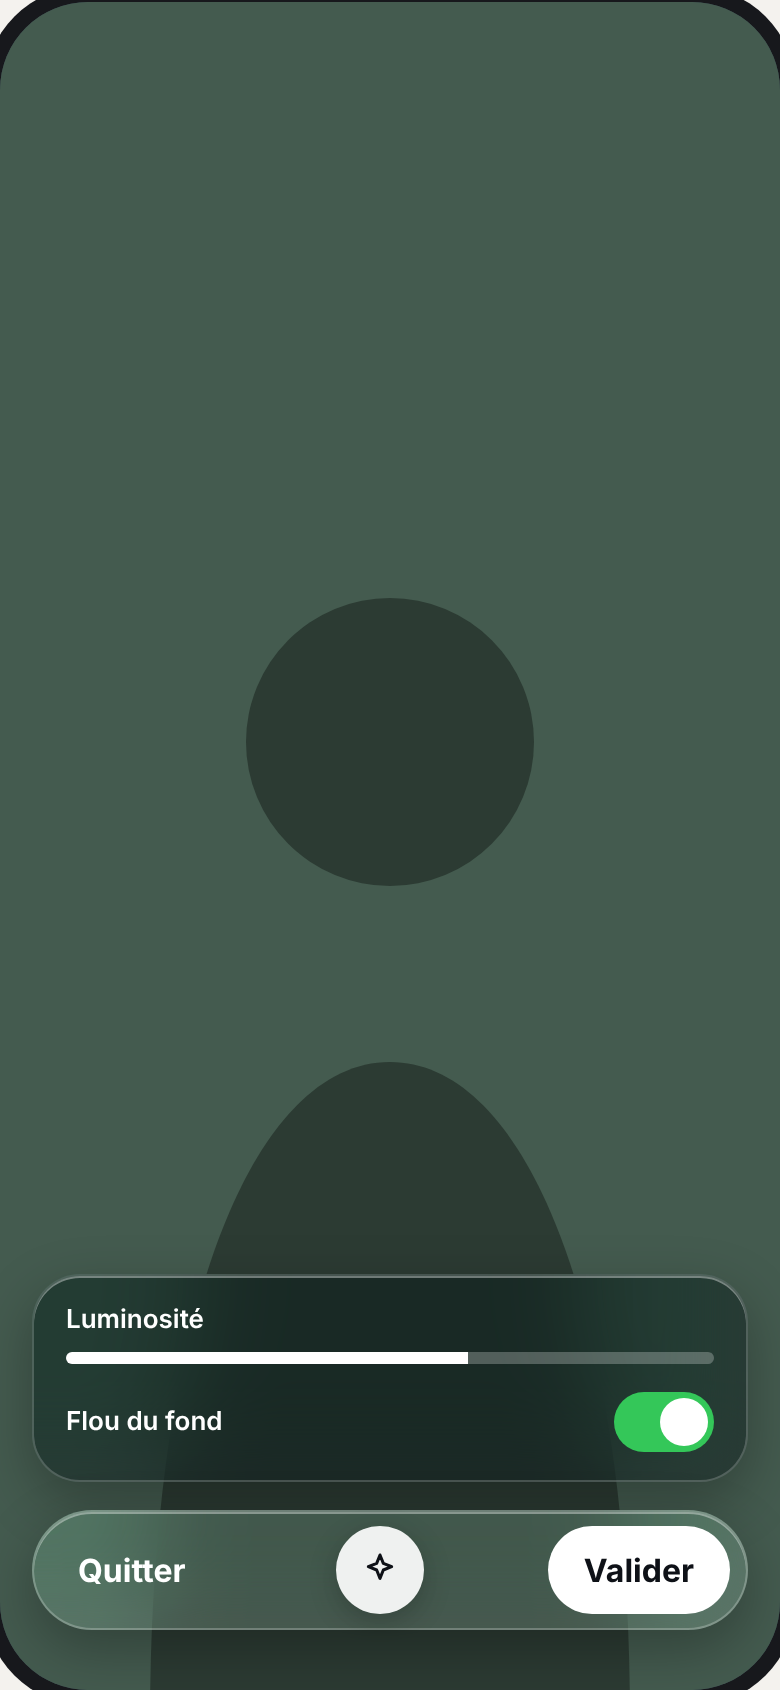
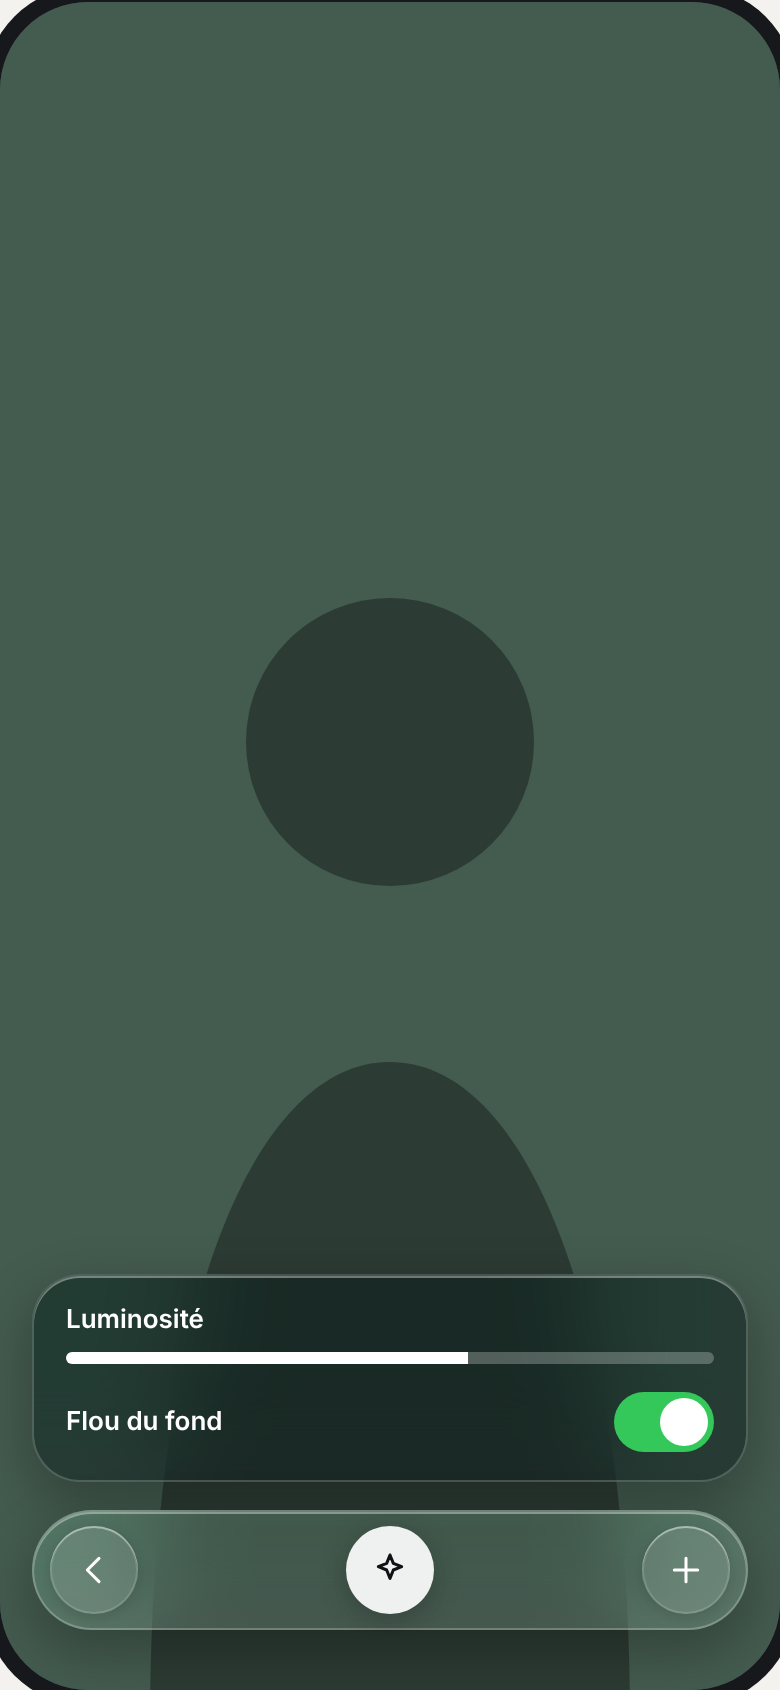
Appels : les puces des looks défilent en fondu aux deux bords, la voix revient, et Effets se pilote par ‹ et (+) (#17410)
* docs(appels): les puces des looks défilent en fondu aux deux bords et trient aussi visage, paysage et voix

La loi 9 rend les effets de voix (directive porteur du 2026-11-10, qui supplante #8050),
la loi 17 interdit la coupure nette d'une rangée qui défile, et la vue P8 le montre.
La facture du workflow de conformité porte la même règle.

Closes #17409

Claude-Session: https://claude.ai/code/session_017ZypwtA3FFaNcUq8pdER8u

* docs(appels): Effets parle la langue du composer — ‹ pour revenir, (+) pour cumuler les looks, plus de « Valider »

Le look touché s'applique tout de suite (directive porteur du 2026-11-10). Vues P8 et P8b, loi 14.

Refs #17409

Claude-Session: https://claude.ai/code/session_017ZypwtA3FFaNcUq8pdER8u

---------

Changed region(s): [[0.7077, 0.8923, 0.9538, 0.9538], [0.4308, 0.8923, 0.5538, 0.9538], [0.0923, 0.9231, 0.2462, 0.9538]]

diff --git a/docs/product/appels-vue-finale/planche.html b/docs/product/appels-vue-finale/planche.html
@@ -138,8 +138,8 @@ const S=[
 {id:'P5',t:'Toucher une phrase : l’original',d:'La phrase touchée déplie son original dessous, en encre secondaire. Retoucher le replie.',html:phone(scene()+head('Awa · 04:12')+self()+caps([T('awa','Tu m’entends bien ? Le son coupait tout à l’heure.',{tag:'EN → FR',orig:'Can you hear me? The sound kept cutting out earlier.'}),T('moi','Oui, c’est net maintenant.')]))},
 {id:'P6',t:'Journal pendant l’appel',d:'« Journal » ouvre TOUT l’appel, rien de tronqué : qui (sa couleur), quand, la phrase servie, l’original sous la phrase qu’on touche. Il s’ouvre DANS la pilule, à la place des sous-titres, et défile librement ; « Revenir au direct » quand on a remonté.',html:phone(scene()+head('Awa · 04:12')+self()+journalPill(J,{live:true}))},
 {id:'P7',t:'Micro coupé',d:'Le micro barré passe en disque blanc. Micro coupé = ma parole n’est plus transcrite (#8475).',html:phone(scene()+head('Awa · 04:12')+self()+pill({micOff:true}))},
-{id:'P8',t:'Effets de ma caméra',d:'« Effets » emprunte au composer (#17406). MA caméra passe en plein écran, les autres en bandeau, les sous-titres restent. Les looks (filtres, cadres, effets) se choisissent en surimpression sur l’image : la case au centre est choisie, à pleine taille, les voisines plus petites. La barre du bas grandit par morphisme et porte les puces qui trient les looks (Tout · Filtres · Cadres · Effets), puis Quitter (rend mon image d’avant) · Réglages · Valider. Pas d’effets de voix (#8050). Un mode libère l’écran : l’en-tête se masque (#8578).',html:phone(`<div style="position:absolute;inset:0;background:#445B4F"></div><svg style="position:absolute;left:75px;top:260px" width="240" height="600" viewBox="0 0 240 600" aria-hidden="true"><circle cx="120" cy="110" r="72" fill="#2c3b33"/><path d="M0 600c0-200 50-330 120-330s120 130 120 330z" fill="#2c3b33"/></svg>`+`<div style="position:absolute;right:12px;top:76px;display:flex;flex-direction:column;gap:6px"><div class="tile" style="width:64px;height:86px;padding:4px;background:#6B5A48;border-color:var(--awa)"><span class="name glass" style="font-size:10px;padding:2px 6px">Awa</span></div></div><div style="position:absolute;left:0;right:0;bottom:158px;display:flex;justify-content:center;align-items:center;gap:12px">${['Aucun','Doré','Lissage','Polaroid','Ange'].map((n,i)=>`<div style="display:flex;flex-direction:column;align-items:center;gap:6px;transform:scale(${i===2?1:.78});opacity:${i===2?1:.6}"><span style="width:64px;height:64px;border-radius:${i===3?'12px':'50%'};background:${['#445B4F','#b89a5a','#7a8f84','#e9e4d8','#c9b37a'][i]};${i===2?'box-shadow:0 0 0 3px #fff;':''}"></span><span style="font-size:11px;font-weight:600">${n}</span></div>`).join('')}</div><div class="glass" style="position:absolute;left:12px;right:12px;bottom:30px;border-radius:32px;padding:10px 8px 8px;display:flex;flex-direction:column;gap:8px"><div role="group" aria-label="Trier les looks" style="display:flex;justify-content:center;gap:6px">${['Tout','Filtres','Cadres','Effets'].map((n,i)=>`<span style="height:32px;padding:0 13px;border-radius:16px;font-size:12px;font-weight:700;display:flex;align-items:center;${i===0?'background:#fff;color:#0E1117':'background:rgba(255,255,255,.16);box-shadow:inset 0 0 0 1px rgba(255,255,255,.14)'}">${n}</span>`).join('')}</div><div style="height:1px;background:rgba(255,255,255,.18)"></div><div style="display:flex;justify-content:space-between;align-items:center;height:48px"><span style="padding:0 14px;font-weight:700">Quitter</span>${B('effects','Réglages','soft')}<span style="height:44px;padding:0 18px;border-radius:22px;background:#fff;color:#0E1117;font-weight:700;display:flex;align-items:center">Valider</span></div></div>`)},
-{id:'P8b',t:'Effets : réglages',d:'« Réglages » remplace le carrousel par Luminosité et Flou du fond.',html:phone(`<div style="position:absolute;inset:0;background:#445B4F"></div><svg style="position:absolute;left:75px;top:260px" width="240" height="600" viewBox="0 0 240 600" aria-hidden="true"><circle cx="120" cy="110" r="72" fill="#2c3b33"/><path d="M0 600c0-200 50-330 120-330s120 130 120 330z" fill="#2c3b33"/></svg>`+`<div class="glass deep" style="position:absolute;left:16px;right:16px;bottom:104px;border-radius:24px;padding:14px 16px;display:flex;flex-direction:column;gap:14px"><label style="display:flex;flex-direction:column;gap:8px;font-size:13px;font-weight:600">Luminosité<span style="height:6px;border-radius:3px;background:linear-gradient(90deg,#fff 62%,rgba(255,255,255,.25) 62%)"></span></label><label style="display:flex;justify-content:space-between;align-items:center;font-size:13px;font-weight:600">Flou du fond<span style="width:50px;height:30px;border-radius:15px;background:#34C759;position:relative"><i style="position:absolute;right:3px;top:3px;width:24px;height:24px;border-radius:50%;background:#fff"></i></span></label></div><div class="glass" style="position:absolute;left:16px;right:16px;bottom:30px;height:60px;border-radius:30px;display:flex;justify-content:space-between;align-items:center;padding:0 8px"><span style="padding:0 14px;font-weight:700">Quitter</span>${B('effects','Réglages','on')}<span style="height:44px;padding:0 18px;border-radius:22px;background:#fff;color:#0E1117;font-weight:700;display:flex;align-items:center">Valider</span></div>`)},
+{id:'P8',t:'Effets de ma caméra',d:'« Effets » emprunte au composer (#17406). MA caméra passe en plein écran, les autres en bandeau, les sous-titres restent. Les looks (filtres, cadres, effets) se choisissent en surimpression sur l’image : la case au centre est choisie, à pleine taille, les voisines plus petites. La barre du bas grandit par morphisme et porte les puces qui trient les looks (Tout · Filtres · Cadres · Visage · Paysage · Voix…) : elles défilent à l’horizontale sans coupure, en s’effaçant toujours en fondu à gauche comme à droite (#17409). Le look choisi s’applique tout de suite : il n’y a pas de « Valider ». La rangée de base parle la langue du composer : ‹ revient à l’appel, Réglages, et (+) ajoute un look par-dessus le précédent pour les cumuler. Un mode libère l’écran : l’en-tête se masque (#8578).',html:phone(`<div style="position:absolute;inset:0;background:#445B4F"></div><svg style="position:absolute;left:75px;top:260px" width="240" height="600" viewBox="0 0 240 600" aria-hidden="true"><circle cx="120" cy="110" r="72" fill="#2c3b33"/><path d="M0 600c0-200 50-330 120-330s120 130 120 330z" fill="#2c3b33"/></svg>`+`<div style="position:absolute;right:12px;top:76px;display:flex;flex-direction:column;gap:6px"><div class="tile" style="width:64px;height:86px;padding:4px;background:#6B5A48;border-color:var(--awa)"><span class="name glass" style="font-size:10px;padding:2px 6px">Awa</span></div></div><div style="position:absolute;left:0;right:0;bottom:158px;display:flex;justify-content:center;align-items:center;gap:12px">${['Aucun','Doré','Lissage','Polaroid','Ange'].map((n,i)=>`<div style="display:flex;flex-direction:column;align-items:center;gap:6px;transform:scale(${i===2?1:.78});opacity:${i===2?1:.6}"><span style="width:64px;height:64px;border-radius:${i===3?'12px':'50%'};background:${['#445B4F','#b89a5a','#7a8f84','#e9e4d8','#c9b37a'][i]};${i===2?'box-shadow:0 0 0 3px #fff;':''}"></span><span style="font-size:11px;font-weight:600">${n}</span></div>`).join('')}</div><div class="glass" style="position:absolute;left:12px;right:12px;bottom:30px;border-radius:32px;padding:10px 8px 8px;display:flex;flex-direction:column;gap:8px"><div role="group" aria-label="Trier les looks" style="overflow:hidden;-webkit-mask-image:linear-gradient(90deg,transparent 0,#000 34px,#000 calc(100% - 34px),transparent 100%);mask-image:linear-gradient(90deg,transparent 0,#000 34px,#000 calc(100% - 34px),transparent 100%)"><div style="display:flex;gap:6px;width:max-content;transform:translateX(-46px)">${['Tout','Filtres','Cadres','Visage','Paysage','Voix','Ambiances'].map((n,i)=>`<span style="height:32px;padding:0 13px;border-radius:16px;font-size:12px;font-weight:700;display:flex;align-items:center;flex-shrink:0;${i===1?'background:#fff;color:#0E1117':'background:rgba(255,255,255,.16);box-shadow:inset 0 0 0 1px rgba(255,255,255,.14)'}">${n}</span>`).join('')}</div></div><div style="height:1px;background:rgba(255,255,255,.18)"></div><div style="display:flex;justify-content:space-between;align-items:center;height:48px">${B('down','Retour à l’appel','soft').replace(P.down,'M15 5l-7 7 7 7')}${B('effects','Réglages','soft')}${B('add','Ajouter un autre look','soft').replace(P.add,'M12 5v14M5 12h14')}</div></div>`)},
+{id:'P8b',t:'Effets : réglages',d:'« Réglages » remplace la bande de looks par Luminosité et Flou du fond ; ‹ et (+) restent.',html:phone(`<div style="position:absolute;inset:0;background:#445B4F"></div><svg style="position:absolute;left:75px;top:260px" width="240" height="600" viewBox="0 0 240 600" aria-hidden="true"><circle cx="120" cy="110" r="72" fill="#2c3b33"/><path d="M0 600c0-200 50-330 120-330s120 130 120 330z" fill="#2c3b33"/></svg>`+`<div class="glass deep" style="position:absolute;left:16px;right:16px;bottom:104px;border-radius:24px;padding:14px 16px;display:flex;flex-direction:column;gap:14px"><label style="display:flex;flex-direction:column;gap:8px;font-size:13px;font-weight:600">Luminosité<span style="height:6px;border-radius:3px;background:linear-gradient(90deg,#fff 62%,rgba(255,255,255,.25) 62%)"></span></label><label style="display:flex;justify-content:space-between;align-items:center;font-size:13px;font-weight:600">Flou du fond<span style="width:50px;height:30px;border-radius:15px;background:#34C759;position:relative"><i style="position:absolute;right:3px;top:3px;width:24px;height:24px;border-radius:50%;background:#fff"></i></span></label></div><div class="glass" style="position:absolute;left:16px;right:16px;bottom:30px;height:60px;border-radius:30px;display:flex;justify-content:space-between;align-items:center;padding:0 8px">${B('down','Retour à l’appel','soft').replace(P.down,'M15 5l-7 7 7 7')}${B('effects','Réglages','on')}${B('add','Ajouter un autre look','soft').replace(P.add,'M12 5v14M5 12h14')}</div>`)},
 ]},
 {h:'Duo audio, portrait',lead:'Sans vidéo, la personne au centre ; mêmes rails, même pilule. « Caméra » dans le rail gauche bascule l’appel en vidéo.',b:[
 {id:'P9',t:'Audio, repos',d:'Avatar, nom, durée au centre ; l’en-tête ne porte à droite que l’indicateur réseau, et seulement s’il se dégrade. L’anneau de l’avatar prend la couleur de la personne quand elle parle.',html:phone(head('')+`<div class="person" style="left:0;right:0;top:220px"><span class="av" style="width:132px;height:132px;background:#B45309;font-size:40px;box-shadow:0 0 0 4px var(--awa),0 0 30px var(--awa)">AD</span><b style="font-size:22px">Awa Diallo</b><span style="color:rgba(255,255,255,.75)">En train de parler</span></div>`+pill(),'#1B2130')},

diff --git a/.claude/workflows/meeshy-conformite-vues.js b/.claude/workflows/meeshy-conformite-vues.js
@@ -126,7 +126,8 @@ const FACTURE = `FACTURE (directive porteur du 2026-11-10, #17406) — elle vaut
   le bord de l'écran et sort par lui ; une option de la barre du bas s'ouvre par MORPHISME, la même barre s'allonge et grandit pour la
   contenir, puis reprend sa forme ; tout ce qui se pose par-dessus suit la même règle, sauf si la planche écrit autre chose pour une vue.
   L'animation ne touche que la transformation et l'opacité, ne perd aucune image, reste interruptible (un bouton touché pendant le
-  mouvement répond), et « Réduire les animations » la remplace par un fondu court.${CONSIGNES ? `
+  mouvement répond), et « Réduire les animations » la remplace par un fondu court.
+- UNE RANGÉE QUI DÉFILE (puces, vignettes) n'est jamais coupée net : elle s'efface en fondu à ses deux bords, à gauche comme à droite.${CONSIGNES ? `
 CONSIGNES DE CE PASSAGE (données par la session qui lance, elles s'ajoutent sans rien retirer) : ${CONSIGNES}` : ''}`
 
 const ECRITURE = (cle, plateforme) => `CLONE PRIVÉ : D=${LOTS}/${cle} ; s'il n'existe pas :

diff --git a/docs/product/appels-vue-finale.md b/docs/product/appels-vue-finale.md
@@ -55,8 +55,8 @@
      - « Revenir au direct » apparaît dès qu'on a remonté ;
      - le journal survit à l'appel réduit, aux sous-titres coupés et à une reconnexion.
 8. **Micro coupé = ma parole n'est plus transcrite** (#8475).
-9. **Effets = filtres vidéo et flou d'arrière-plan, sans effets de voix** (#8050).
-   - **Effets emprunte au composer** (directive porteur du 2026-11-10, #17406) : les filtres, les cadres et les effets sont des LOOKS, choisis en surimpression sur mon image, dans la bande du composer (`ComposerLookStrip`), et les puces qui les trient (`ComposerLookFilterChips` : Tout · Filtres · Cadres · Effets) apparaissent dans la barre du bas (P8). L'appel ne recrée ni la bande, ni les puces, ni le catalogue.
+9. **Effets = des looks : filtres, cadres, effets de visage, de paysage et de voix.** La directive porteur du 2026-11-10 (#17409) rend les effets de voix, que #8050 avait retirés le 2026-09-27 ; elle est postérieure et la supplante.
+   - **Effets emprunte au composer** (directive porteur du 2026-11-10, #17406) : les filtres, les cadres et les effets sont des LOOKS, choisis en surimpression sur mon image, dans la bande du composer (`ComposerLookStrip`), et les puces qui les trient (`ComposerLookFilterChips` : Tout · Filtres · Cadres · Visage · Paysage · Voix…) apparaissent dans la barre du bas (P8). Elles défilent à l'horizontale sans coupure brute : la rangée s'efface toujours en fondu à gauche comme à droite (#17409). L'appel ne recrée ni la bande, ni les puces, ni le catalogue.
 10. **L'écran partagé de quelqu'un d'autre passe à la une tout seul.** La caméra de celui qui partage passe en médaillon, au liseré de sa couleur.
 
 11. **Un toucher n'importe où sur l'image range tout, un autre toucher rend tout** (#16663).
@@ -76,7 +76,8 @@
 14. **Options en surimpression.**
     - Une option à réglages (Enregistrer, Réagir) s'ouvre DANS la pilule, par morphisme : la même barre s'allonge et grandit pour la contenir, avec ‹ Retour et Fermer, puis reprend sa forme (loi 17). C'est la même barre agrandie qui porte les sous-titres et le journal.
     - « Participants » s'ouvre en feuille ; « Journal » s'ouvre dans la pilule (loi 7).
-    - Effets et Montage sont des modes plein écran avec Quitter · Réglages · Valider, et leur choix se fait dans les looks du composer (loi 9) ; « Quitter » rend mon image d'avant. Un mode libère l'écran : l'en-tête se masque (#8578, confirmé par le porteur le 2026-11-09, #17344).
+    - Effets est un mode plein écran qui parle la langue du composer (directive porteur du 2026-11-10, #17409) : ‹ · Réglages · (+). Le look touché s'applique tout de suite, sans « Valider » ; ‹ revient à l'appel ; (+) ajoute un look par-dessus le précédent, pour les cumuler ; « Aucun » rend mon image d'origine. Le choix se fait dans les looks du composer (loi 9).
+    - Montage garde Quitter · Réglages · Valider tant que le porteur ne l'a pas aligné ; « Quitter » rend mon image d'avant. Un mode libère l'écran : l'en-tête se masque (#8578, confirmé par le porteur le 2026-11-09, #17344).
 15. **À la une.**
     - Toucher une vignette la met à la une, choix local jamais imposé. Si les contrôles sont cachés, le toucher les rend d'abord.
     - La vignette à la une n'a pas de badge : une capsule en haut à droite offre « Revenir à la grille » et « Plein écran ».
@@ -90,6 +91,7 @@
     - Un élément arrive depuis l'endroit d'où il vient, et repart vers lui.
     - Les rails latéraux entrent par le bord de l'écran et sortent par lui, vers l'extérieur.
     - Ce qui s'ouvre depuis la barre du bas (options, sous-titres, journal, rangées d'actions en groupe) s'ouvre par morphisme : la barre s'allonge et grandit, puis reprend sa forme.
+    - Une rangée qui défile (puces, bandeau de vignettes) n'est jamais coupée net : elle s'efface en fondu à ses deux bords (#17409).
     - Tout ce qui se pose par-dessus l'image suit la même logique. Seule exception : Effets, qui emprunte au composer (loi 9).
     - Le mouvement ne perd aucune image, reste interruptible (loi 11) et « Réduire les animations » le remplace par un fondu court.
 18. **Simplicité : la vue affiche ce qu'elle dessine, rien en plus** (directive porteur du 2026-11-10, #17406).
